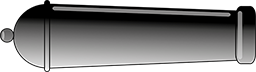
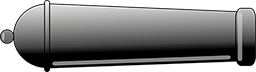
updated grass texture, added HUD elements, fixed cannon texture orientation, set camera bounds and zoom factor limits

diff --git a/src/com/angrykings/activities/LocalTestActivity.java b/src/com/angrykings/activities/LocalTestActivity.java
@@ -37,7 +37,8 @@ import org.andengine.input.touch.detector.ScrollDetector.IScrollDetectorListener
  * @author Shivan Taher <zn31415926535@gmail.com>
  * @date 06.06.13
  */
-public class LocalTestActivity extends BaseGameActivity implements IOnSceneTouchListener, IScrollDetectorListener, IPinchZoomDetectorListener {
+public class LocalTestActivity extends BaseGameActivity
+		implements IOnSceneTouchListener, IScrollDetectorListener, IPinchZoomDetectorListener {
 
 	private GameContext gc;
 
@@ -51,6 +52,7 @@ public class LocalTestActivity extends BaseGameActivity implements IOnSceneTouch
 	private TextureRegion ballTexture;
 	private TiledTextureRegion skyTexture;
 	private TiledTextureRegion aimButtonTexture;
+	private TiledTextureRegion whiteFlagButtonTexture;
 
 	//
 	// Game Objects
@@ -75,7 +77,13 @@ public class LocalTestActivity extends BaseGameActivity implements IOnSceneTouch
 		gc = GameContext.getInstance();
 
 		ZoomCamera camera = new ZoomCamera(0, 0, GameConfig.CAMERA_WIDTH, GameConfig.CAMERA_HEIGHT);
-		camera.setZoomFactor(0.3f);
+
+		camera.setZoomFactor(GameConfig.CAMERA_STARTUP_ZOOM);
+		camera.setBounds(
+				GameConfig.CAMERA_MIN_X, GameConfig.CAMERA_MIN_Y,
+				GameConfig.CAMERA_MAX_X, GameConfig.CAMERA_MAX_Y
+		);
+		camera.setBoundsEnabled(true);
 
 		gc.setCamera(camera);
 
@@ -95,8 +103,7 @@ public class LocalTestActivity extends BaseGameActivity implements IOnSceneTouch
 		// tile set for the map
 		//
 
-		BitmapTextureAtlas textureAtlas = new BitmapTextureAtlas(this.getTextureManager(), 32, 32, TextureOptions.BILINEAR);
-
+		BitmapTextureAtlas textureAtlas = new BitmapTextureAtlas(this.getTextureManager(), 50, 393, TextureOptions.BILINEAR);
 		this.grassTexture = BitmapTextureAtlasTextureRegionFactory.createTiledFromAsset(textureAtlas, this, "grass.png", 0, 0, 1, 1); // 32x32
 		textureAtlas.load();
 
@@ -114,6 +121,10 @@ public class LocalTestActivity extends BaseGameActivity implements IOnSceneTouch
 
 		textureAtlas = new BitmapTextureAtlas(this.getTextureManager(), 160, 80, TextureOptions.BILINEAR);
 		this.aimButtonTexture = BitmapTextureAtlasTextureRegionFactory.createTiledFromAsset(textureAtlas, this, "aim_button.png", 0, 0, 2, 1);
+		textureAtlas.load();
+
+		textureAtlas = new BitmapTextureAtlas(this.getTextureManager(), 80, 80, TextureOptions.BILINEAR);
+		this.whiteFlagButtonTexture = BitmapTextureAtlasTextureRegionFactory.createTiledFromAsset(textureAtlas, this, "white_flag_button.png", 0, 0, 1, 1);
 		textureAtlas.load();
 
 		this.skySprite = new RepeatingSpriteBackground(
@@ -192,17 +203,21 @@ public class LocalTestActivity extends BaseGameActivity implements IOnSceneTouch
 		scene.setOnSceneTouchListener(this);
 		scene.setTouchAreaBindingOnActionDownEnabled(true);
 
-		final GameHUD hud = new GameHUD(this.aimButtonTexture);
-
-		gc.setHud(hud);
-
+		final GameHUD hud = new GameHUD(this.aimButtonTexture, this.whiteFlagButtonTexture);
 		hud.setOnAimTouched(new Runnable() {
 			@Override
 			public void run() {
 				isAiming = !isAiming;
 			}
 		});
+		hud.setOnWhiteFlagTouched(new Runnable() {
+			@Override
+			public void run() {
+				finish();
+			}
+		});
 
+		gc.setHud(hud);
 		gc.getCamera().setHUD(hud);
 
 		pOnCreateSceneCallback.onCreateSceneFinished(scene);
@@ -257,14 +272,20 @@ public class LocalTestActivity extends BaseGameActivity implements IOnSceneTouch
 	public void onPinchZoom(PinchZoomDetector pPinchZoomDetector, TouchEvent pTouchEvent, float pZoomFactor) {
 		GameContext gc = GameContext.getInstance();
 		ZoomCamera camera = (ZoomCamera)gc.getCamera();
-		camera.setZoomFactor(this.pinchZoomStartedCameraZoomFactor * pZoomFactor);
+
+		float factor = this.pinchZoomStartedCameraZoomFactor * pZoomFactor;
+		if(factor > GameConfig.CAMERA_ZOOM_MIN && factor < GameConfig.CAMERA_ZOOM_MAX)
+			camera.setZoomFactor(factor);
 	}
 
 	@Override
 	public void onPinchZoomFinished(PinchZoomDetector pPinchZoomDetector, TouchEvent pTouchEvent, float pZoomFactor) {
 		GameContext gc = GameContext.getInstance();
 		ZoomCamera camera = (ZoomCamera)gc.getCamera();
-		camera.setZoomFactor(this.pinchZoomStartedCameraZoomFactor * pZoomFactor);
+
+		float factor = this.pinchZoomStartedCameraZoomFactor * pZoomFactor;
+		if(factor > GameConfig.CAMERA_ZOOM_MIN && factor < GameConfig.CAMERA_ZOOM_MAX)
+			camera.setZoomFactor(factor);
 	}
 
 	@Override

diff --git a/src/com/angrykings/GameHUD.java b/src/com/angrykings/GameHUD.java
@@ -7,6 +7,7 @@ import org.andengine.entity.scene.ITouchArea;
 import org.andengine.entity.sprite.AnimatedSprite;
 import org.andengine.input.touch.TouchEvent;
 import org.andengine.opengl.texture.region.TiledTextureRegion;
+import org.andengine.util.color.Color;
 import org.andengine.util.debug.Debug;
 
 /**
@@ -19,12 +20,55 @@ import org.andengine.util.debug.Debug;
  */
 public class GameHUD extends HUD {
 	private final AnimatedSprite aimButton;
-	private Runnable onAimTouched;
+	private final AnimatedSprite whiteFlagButton;
 
-	public GameHUD(TiledTextureRegion aimButtonTexture) {
+	private Runnable onAimTouched;
+	private Runnable onWhiteFlagTouched;
+
+	private final LifeBar leftLifeBar;
+	private final LifeBar rightLifeBar;
+
+	/**
+	 * This entity represents a slider to indicate the height of the players castle.
+	 */
+	private class LifeBar extends Entity {
+		private final Rectangle barFrame;
+		private final Rectangle barFilled;
+
+		public final static float BAR_HEIGHT = 200.0f;
+		public final static float BAR_WIDTH = 8;
+
+		private LifeBar(float x, float y) {
+			this(x, y, new Color(0.5f, 0.5f, 0.5f, 0.5f), new Color(1, 0, 0, 0.5f));
+		}
+
+		private LifeBar(float x, float y, Color frameColor, Color lifeColor) {
+			super(x, y);
+
+			GameContext gc = GameContext.getInstance();
+
+			this.barFrame = new Rectangle(0, 0, BAR_WIDTH, LifeBar.BAR_HEIGHT, gc.getVboManager());
+			this.barFrame.setColor(frameColor);
+			this.attachChild(this.barFrame);
+
+			this.barFilled = new Rectangle(0, LifeBar.BAR_HEIGHT, BAR_WIDTH, -LifeBar.BAR_HEIGHT, gc.getVboManager());
+			this.barFilled.setColor(lifeColor);
+			this.attachChild(this.barFilled);
+		}
+
+		public void setValue(float value) {
+			this.barFilled.setHeight(-LifeBar.BAR_HEIGHT*value);
+		}
+	}
+
+	public GameHUD(TiledTextureRegion aimButtonTexture, TiledTextureRegion whiteFlagButtonTexture) {
 		super();
 
 		GameContext gc = GameContext.getInstance();
+
+		//
+		// aim button
+		//
 
 		this.aimButton = new AnimatedSprite(20, 20, aimButtonTexture, gc.getVboManager()) {
 			@Override
@@ -38,15 +82,53 @@ public class GameHUD extends HUD {
 			}
 		};
 
-		this.attachChild(aimButton);
+		this.attachChild(this.aimButton);
+
+		//
+		// white flag button
+		//
+
+		this.whiteFlagButton = new AnimatedSprite(GameConfig.CAMERA_WIDTH-100, 20, whiteFlagButtonTexture, gc.getVboManager()) {
+			@Override
+			public boolean onAreaTouched(TouchEvent pSceneTouchEvent, float pTouchAreaLocalX, float pTouchAreaLocalY) {
+				if (pSceneTouchEvent.isActionUp()) {
+					if(onWhiteFlagTouched != null)
+						onWhiteFlagTouched.run();
+				}
+				return true;
+			}
+		};
+
+		this.attachChild(this.whiteFlagButton);
+
+		//
+		// player slider
+		//
+
+		this.leftLifeBar = new LifeBar(20, 180);
+		this.leftLifeBar.setValue(0.5f);
+		this.attachChild(this.leftLifeBar);
+
+		this.rightLifeBar = new LifeBar(GameConfig.CAMERA_WIDTH - LifeBar.BAR_WIDTH - 20, 180);
+		this.rightLifeBar.setValue(0.7f);
+		this.attachChild(this.rightLifeBar);
 	}
 
 	public void setOnAimTouched(Runnable onAimTouched) {
 		this.onAimTouched = onAimTouched;
-		this.registerTouchArea(aimButton);
+		this.registerTouchArea(this.aimButton);
+	}
+
+	public void setOnWhiteFlagTouched(Runnable onWhiteFlagTouched) {
+		this.onWhiteFlagTouched = onWhiteFlagTouched;
+		this.registerTouchArea(this.whiteFlagButton);
 	}
 
 	public AnimatedSprite getAimButton() {
 		return aimButton;
+	}
+
+	public AnimatedSprite getWhiteFlagButton() {
+		return whiteFlagButton;
 	}
 }

diff --git a/src/com/angrykings/maps/BasicMap.java b/src/com/angrykings/maps/BasicMap.java
@@ -30,39 +30,44 @@ import org.andengine.ui.activity.BaseActivity;
  */
 public class BasicMap extends Map {
 
+	public static final float GROUND_X = -2500;
+	public static final float GROUND_Y = 1000;
+	public static final float GRASS_TILES = 150;
+	public static final float GRASS_ENDING_HEIGHT = 4000;
+
 	public BasicMap(TiledTextureRegion textureRegion, TiledTextureRegion skyTexture) {
 		super(textureRegion);
 
 		GameContext gc = GameContext.getInstance();
 
-		// TODO: Remove constants
-
-		//
-		// Background
-		//
-
-//		RepeatingSpriteBackground sky = new RepeatingSpriteBackground(GameConfig.CAMERA_WIDTH, GameConfig.CAMERA_HEIGHT, )
-//
-//		TiledSprite sky = new TiledSprite(0, 0, skyTexture, gc.getVboManager());
-//		gc.getScene().setBackground(new EntityBackground(sky));
-
-
-
-
 		//
 		// Grass Texture
 		//
 
-		for(int i=0; i<128; i++) {
-			TiledSprite groundSprite = new TiledSprite(i*32 - 1500, 1000, this.textureRegion, gc.getVboManager());
+		float grassWidth = textureRegion.getWidth();
+
+		for(int i=0; i<BasicMap.GRASS_TILES; i++) {
+			TiledSprite groundSprite = new TiledSprite(i*grassWidth + BasicMap.GROUND_X, BasicMap.GROUND_Y, this.textureRegion, gc.getVboManager());
 			this.attachChild(groundSprite);
 		}
+
+		Rectangle groundEnding = new Rectangle(
+				BasicMap.GROUND_X,
+				BasicMap.GROUND_Y + textureRegion.getHeight(),
+				BasicMap.GRASS_TILES*grassWidth,
+				GRASS_ENDING_HEIGHT,
+				gc.getVboManager()
+		);
+
+		groundEnding.setColor(0.63137f, 0.435294f, 0.250980f);
+
+		this.attachChild(groundEnding);
 
 		//
 		// Ground Body (Physics)
 		//
 
-		final Rectangle ground = new Rectangle(-1500, 1000, 4200, 2, gc.getVboManager());
+		final Rectangle ground = new Rectangle(BasicMap.GROUND_X, BasicMap.GROUND_Y, BasicMap.GRASS_TILES*grassWidth, 2, gc.getVboManager());
 		ground.setColor(1.0f, 0.0f, 0.0f);
 
 		final FixtureDef wallFixture = PhysicsFactory.createFixtureDef(0, 0.1f, 1.0f);

diff --git a/src/com/angrykings/GameConfig.java b/src/com/angrykings/GameConfig.java
@@ -13,9 +13,14 @@ public final class GameConfig {
 	public static final int CAMERA_WIDTH = 960;
 	public static final int CAMERA_HEIGHT = 540;
 
+	public static final float CAMERA_STARTUP_ZOOM = 0.3f;
+	public static final float CAMERA_ZOOM_MIN = 0.2f;
+	public static final float CAMERA_ZOOM_MAX = 1.2f;
+
+	public static final float CAMERA_MIN_X = -2500;
+	public static final float CAMERA_MAX_X = 3600;
+	public static final float CAMERA_MIN_Y = -1300;
+	public static final float CAMERA_MAX_Y = 1400;
+
 	public final static boolean LOG_FPS = false;
-
-	private GameConfig() {
-
-	}
 }
